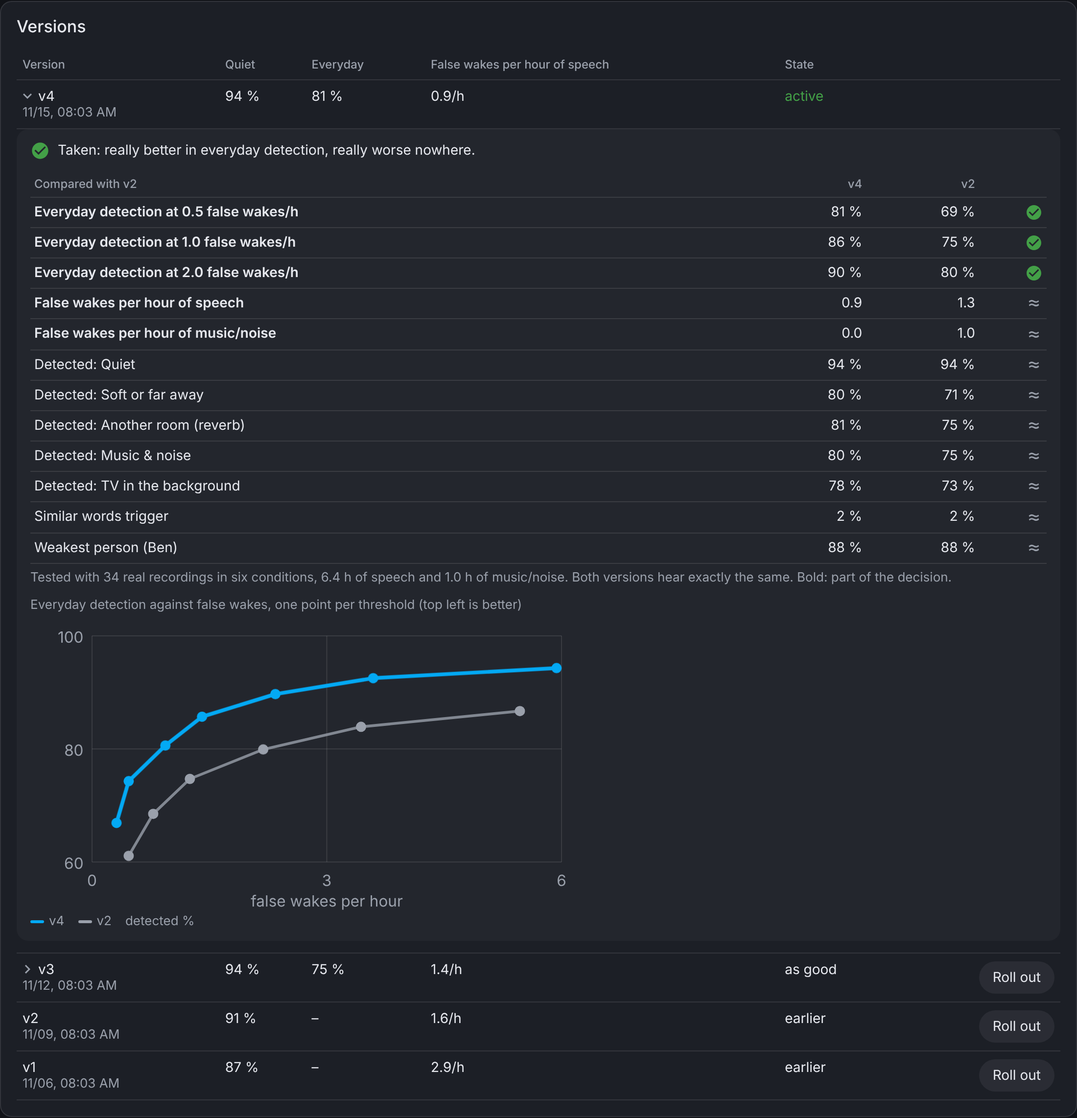
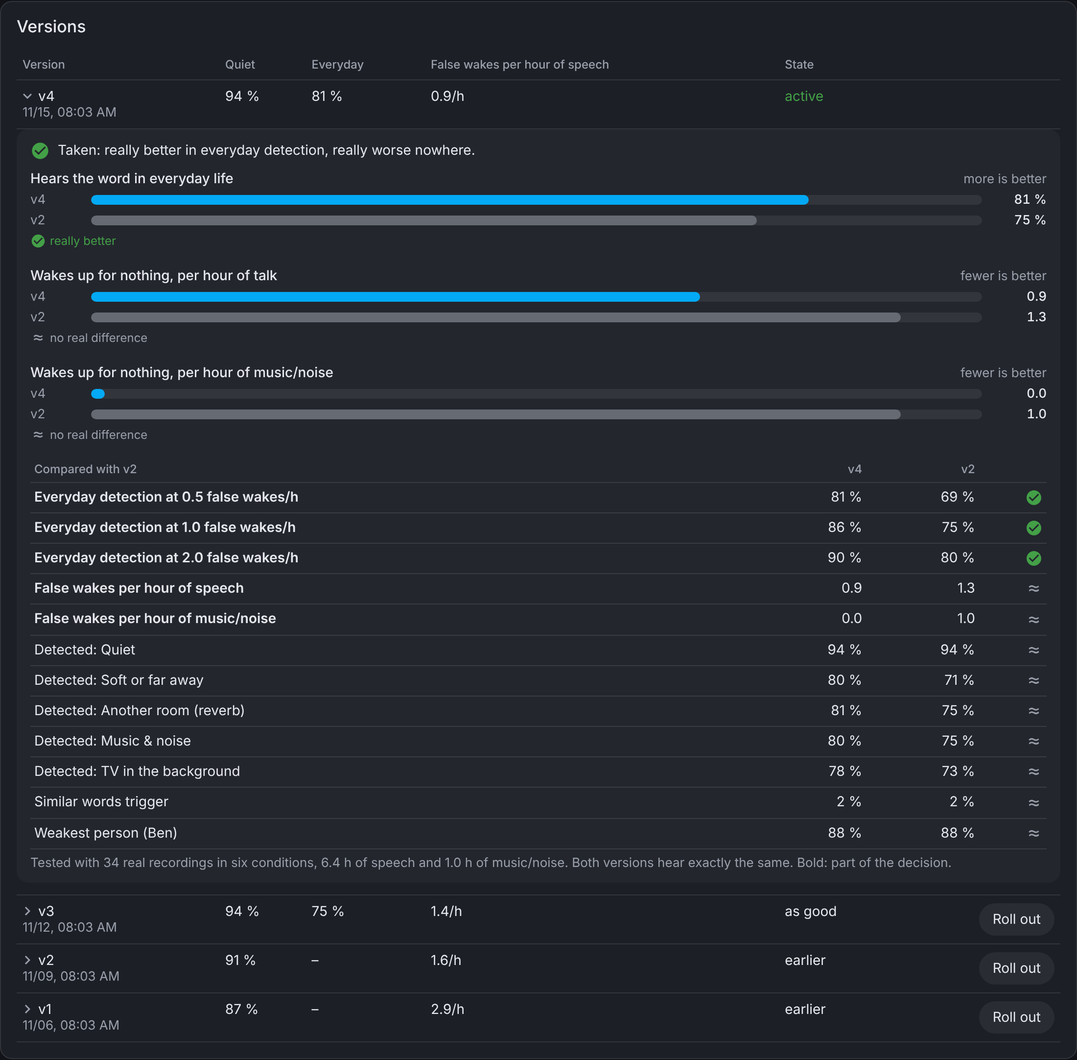
1.0.27: easy to read version comparison with bars (#36)
The curve was hard to read and showed nothing for versions tested before
1.0.26. The active version card and every version's details now show two
bars per question (hears the word in everyday life, wakes up for nothing
in talk, in music/noise) against the version before, marked really
better / really worse / no real difference. Old reports use their own
test. Grow-in animations play when a page opens, not on each refresh.

Claude-Session: https://claude.ai/code/session_015s6FHN9RtFzjRTkpWD3kXZ

diff --git a/custom_components/sprachmodell/frontend/sprachmodell-panel.js b/custom_components/sprachmodell/frontend/sprachmodell-panel.js
@@ -10,7 +10,7 @@ const TEXTE_DA = import(`./sprachmodell-texte.js${new URL(import.meta.url).searc
   .then((m) => { TEXTE = m.TEXTE; SPRACHNAMEN = m.SPRACHNAMEN; })
   .catch((e) => console.error('Wake Word Studio: texts could not be loaded', e));
 
-const VERSION = '1.0.26';
+const VERSION = '1.0.27';
 const REPO = 'https://github.com/Wadim-dev/WakeWordStudio_ha';
 const BILD = 'ghcr.io/wadim-dev/wake-word-studio-trainer:latest';
 const PROXMOX = 'https://raw.githubusercontent.com/Wadim-dev/WakeWordStudio_ha/main/sprachmodell_trainer/proxmox.sh';
@@ -87,7 +87,7 @@ button.k kbd{font:11px monospace;opacity:.6;border:1px solid currentColor;border
 .stempel.u-wort{background:color-mix(in srgb,var(--success-color,#4caf50) 82%,transparent)}.stempel.u-kein_wort{background:color-mix(in srgb,var(--error-color,#f44336) 82%,transparent)}.stempel.u-verworfen{background:color-mix(in srgb,var(--secondary-text-color,#777) 85%,transparent)}
 @keyframes stempel{from{opacity:0;transform:scale(.92)}to{opacity:1;transform:none}}
 .knoepfe button.k.drueck{animation:drueck .35s ease-out}@keyframes drueck{0%{box-shadow:0 0 0 0 rgba(var(--rgb-primary-color,3,169,244),.45)}100%{box-shadow:0 0 0 12px rgba(var(--rgb-primary-color,3,169,244),0)}}
-@media (prefers-reduced-motion:reduce){.eintrag .stempel,.knoepfe button.k.drueck,.umzug,.lage-balken i,.vgl.auf,.vgl.auf .kurve path,.vgl.auf .kurve circle{animation:none}}
+@media (prefers-reduced-motion:reduce){.eintrag .stempel,.knoepfe button.k.drueck,.umzug,.lage-balken i,.vgl.auf,.d-spur i{animation:none}}
 .spielen{width:52px;height:52px;border-radius:50%;border:0;background:rgba(var(--rgb-primary-color,3,169,244),.15);color:var(--primary-color);cursor:pointer;position:relative}
 .spielen ha-icon{--mdc-icon-size:28px}
 .spielen svg{position:absolute;inset:0;transform:rotate(-90deg)}
@@ -108,6 +108,19 @@ button.k kbd{font:11px monospace;opacity:.6;border:1px solid currentColor;border
 .marke{border-radius:999px;padding:1px 8px;background:color-mix(in srgb,var(--primary-color) 14%,transparent);color:var(--primary-text-color);font-size:11px}
 .schnitt:empty{display:none}
 .lagen{display:grid;gap:8px;margin:4px 0 6px}
+.blick{display:grid;gap:8px 32px;margin-top:6px}.blick.zwei{grid-template-columns:minmax(0,1fr) minmax(0,1fr);align-items:start}
+@media (max-width:900px){.blick.zwei{grid-template-columns:minmax(0,1fr)}}
+.blick-duell button.link{display:inline-flex;align-items:center;gap:2px;margin-top:2px;border:0;background:none;padding:4px 0;color:var(--primary-color);font:inherit;font-size:14px;cursor:pointer}.blick-duell button.link:hover{text-decoration:underline}.blick-duell button.link ha-icon{--mdc-icon-size:18px}
+.duell{display:grid;gap:16px;margin:4px 0 10px}
+.d-kopf{display:flex;justify-content:space-between;gap:8px;align-items:baseline;font-size:14px;font-weight:500;margin-bottom:4px}.d-kopf .klein{font-weight:400;white-space:nowrap}
+.d-zeile{display:grid;grid-template-columns:52px 1fr 56px;gap:10px;align-items:center;font-size:13px;margin-top:5px}
+.d-zeile b{text-align:right;font-weight:500;font-variant-numeric:tabular-nums}.d-name{color:var(--secondary-text-color)}
+.d-spur{height:10px;border-radius:5px;background:rgba(var(--rgb-primary-text-color,0,0,0),.08);overflow:hidden}
+.d-spur i{display:block;height:100%;width:var(--w);border-radius:5px;animation:balken-wachsen .7s cubic-bezier(.2,.8,.3,1) both}
+.d-spur i.neu{background:var(--primary-color)}.d-spur i.alt{background:var(--secondary-text-color);opacity:.5}
+.d-fuss{margin-top:5px;font-size:12px}.d-urteil{display:inline-flex;gap:4px;align-items:center;color:var(--secondary-text-color)}.d-urteil ha-icon{--mdc-icon-size:16px}
+.d-urteil.u-besser{color:var(--success-color,#4caf50)}.d-urteil.u-schlechter{color:var(--error-color,#f44336)}
+.still .lage-balken i,.still .d-spur i{animation:none}
 .lage{display:grid;grid-template-columns:minmax(110px,190px) 1fr 48px;gap:10px;align-items:center;font-size:13px}
 .lage b{text-align:right;font-weight:500}
 .lage-balken{height:8px;border-radius:4px;background:rgba(var(--rgb-primary-text-color,0,0,0),.08);overflow:hidden}
@@ -131,18 +144,6 @@ table.versionen tr.vdetail>td{padding:0 0 12px;background:transparent}
 .vgl-tab .u-gleich{color:var(--secondary-text-color)}
 .vgl-tab td,.vgl-tab th{padding:6px 4px}.vgl-tab ha-icon{--mdc-icon-size:18px}
 .vgl-tab tr.wichtig td:first-child{font-weight:600}
-.kurve{margin-top:12px}.kurve svg{display:block;width:100%;max-width:560px;height:auto;margin-top:6px;overflow:visible}
-.kurve text{font-size:9px;fill:var(--secondary-text-color)}
-.kurve line.g{stroke:var(--divider-color);stroke-width:.6}
-.kurve path{fill:none;stroke-width:2.2;stroke-linejoin:round;stroke-linecap:round;stroke-dasharray:1;stroke-dashoffset:0}
-.kurve path.neu{stroke:var(--primary-color)}.kurve path.alt{stroke:var(--secondary-text-color);stroke-width:1.6;opacity:.8}
-.vgl.auf .kurve path{animation:linie-zeichnen .9s cubic-bezier(.4,0,.2,1) both}.vgl.auf .kurve path.alt{animation-delay:.1s}
-.kurve circle.neu{fill:var(--primary-color)}.kurve circle.alt{fill:var(--secondary-text-color)}
-.vgl.auf .kurve circle{animation:punkt-auf .3s ease-out both}
-@keyframes linie-zeichnen{from{stroke-dashoffset:1}to{stroke-dashoffset:0}}
-@keyframes punkt-auf{from{opacity:0;transform:scale(.3)}to{opacity:1;transform:none}}
-.kurve circle{transform-box:fill-box;transform-origin:center}
-.legende{gap:14px;margin-top:4px}.legende i{display:inline-block;width:14px;height:3px;border-radius:2px;margin-right:5px;vertical-align:middle}
 .legende i.neu{background:var(--primary-color)}.legende i.alt{background:var(--secondary-text-color)}
 .umzug:empty{display:none}
 .umzug{margin-top:10px;padding:10px 12px;border-radius:10px;background:color-mix(in srgb,var(--primary-text-color) 5%,transparent);animation:aufklappen .22s cubic-bezier(.2,.8,.3,1) both}
@@ -457,6 +458,10 @@ class SprachmodellPanel extends HTMLElement {
     const positionen = this._scrollPositionen();
     main.style.minHeight = main.offsetHeight + 'px';
     const log = main.querySelector('.protokoll'), oben = !log || log.scrollTop < 30, logPos = log ? log.scrollTop : 0;
+    // grow-in animations only when a page is opened, not each time its data refreshes
+    const seite = this._reiter + '|' + this._wortId;
+    main.classList.toggle('still', this._gezeigt === seite);
+    this._gezeigt = seite;
     main.innerHTML = f.call(this);
     const logNeu = main.querySelector('.protokoll'); if (logNeu) logNeu.scrollTop = oben ? 0 : logPos;
     if (this._reiter === 'pruefen') this._markieren(false);
@@ -1347,9 +1352,9 @@ ${summe ? `<div class="tb-rahmen"><table class="tb"><tr><th class="tb-r klein">$
     const zeilen = w.versionen.map((x) => {
       const b = x.bericht || {}, n = b.neu || {}, vg = b.vergleich, offen = this._vglOffen.has(x.nr);
       const stand = x.status === 'verworfen' && vg && vg.urteil === 'gleich' ? 'gleich' : x.status;
-      const details = b.je_schwelle || vg;
+      const details = vg || b.alt !== undefined;
       return `<tr class="vrow ${details ? 'klickbar' : ''} ${offen ? 'offen' : ''}" ${details ? `data-vgl="${x.nr}" title="${esc(this.t('q_details'))}"` : ''}><td>${details ? '<ha-icon class="pfeil" icon="mdi:chevron-right"></ha-icon>' : ''}v${x.nr}<div class="klein">${this._datum(x.zeit)}</div></td><td>${this._pct(n.trefferquote)}</td><td>${this._pct(n.trefferquote_alltag)}</td><td>${this._zahl(n.fehlausloeser_pro_stunde, 1)}/${esc(this.t('std'))}</td><td class="${x.status === 'aktiv' ? 'gruen' : ''}">${esc(this.t('s_' + stand))}</td><td class="z">${x.status !== 'aktiv' && this._admin ? `<button class="k" data-a="einspielen" data-nr="${x.nr}">${esc(this.t('q_einspielen'))}</button>` : ''}</td></tr>
-${details ? `<tr class="vdetail" data-vgldetail="${x.nr}" ${offen ? '' : 'hidden'}><td colspan="6"><div class="vgl ${offen ? 'auf' : ''}">${this._vergleich(x)}</div></td></tr>` : ''}`;
+${details ? `<tr class="vdetail" data-vgldetail="${x.nr}" ${offen ? '' : 'hidden'}><td colspan="6"><div class="vgl">${this._vergleich(x)}</div></td></tr>` : ''}`;
     }).join('');
     return `<div class="tabelle-scroll"><table class="versionen"><tr><th>${esc(this.t('q_version'))}</th><th>${esc(this.t('q_erkannt_ruhig'))}</th><th title="${esc(this.t('q_alltag_t'))}">${esc(this.t('q_alltag_k'))}</th><th>${esc(this.t('q_fehl'))}</th><th>${esc(this.t('q_stand'))}</th><th></th></tr>${zeilen}</table></div>`;
   }
@@ -1361,37 +1366,59 @@ ${details ? `<tr class="vdetail" data-vgldetail="${x.nr}" ${offen ? '' : 'hidden
       : z.kennzahl.startsWith('erkannt_') ? this.t('k_erkannt', { b: this.t('b_' + z.kennzahl.slice(8)) })
         : z.kennzahl === 'schwaechste_person' ? this.t('k_schwaechste_person', { p: z.person || '' }) : this.t('k_' + z.kennzahl);
     const icon = { besser: 'mdi:check-circle', schlechter: 'mdi:close-circle', gleich: 'mdi:approximately-equal' };
-    let kopf = '';
-    if (vg) {
-      const liste = (ks) => [...new Set(ks)].map((k) => this.t(k === 'alltag_bei_fa' ? 'k_alltag_kurz' : 'k_' + k)).join(', ');
-      kopf = `<div class="vgl-urteil u-${vg.urteil}"><ha-icon icon="${icon[vg.urteil] || 'mdi:information'}"></ha-icon><span>${esc(this.t('g_' + vg.grund, { k: liste(vg.grund === 'besser_in' ? vg.besser_in : vg.schlechter_in) }))}</span></div>`;
-    } else if (b.alt === null) kopf = `<div class="vgl-urteil"><ha-icon icon="mdi:information-outline"></ha-icon><span>${esc(this.t('g_erste'))}</span></div>`;
+    const kopf = this._urteilZeile(b);
     const tab = vg ? `<table class="vgl-tab"><tr><th>${esc(this.t(b.alt_nr ? 'q_vgl' : 'q_vgl_vorher', { v: b.alt_nr }))}</th><th class="z">${esc(this.t('q_vgl_neu', { v: x.nr }))}</th><th class="z">${esc(b.alt_nr ? 'v' + b.alt_nr : this.t('q_vgl_alt'))}</th><th class="z"></th></tr>${vg.zeilen.map((z) => `<tr class="${z.wichtig ? 'wichtig' : ''}"><td>${esc(name(z))}</td><td class="z">${z.kennzahl === 'alltag_bei_fa' && z.neu == null ? esc(this.t('q_nicht_erreicht')) : wert(z.kennzahl, z.neu)}</td><td class="z">${z.kennzahl === 'alltag_bei_fa' && z.alt == null ? esc(this.t('q_nicht_erreicht')) : wert(z.kennzahl, z.alt)}</td><td class="z"><ha-icon class="u-${z.urteil}" icon="${icon[z.urteil]}" title="${esc(this.t('u_' + z.urteil))}"></ha-icon></td></tr>`).join('')}</table>
-<div class="klein" style="margin-top:6px">${esc(this.t('q_vgl_basis', { n: vg.testaufnahmen, h: this._zahl(vg.stunden_rede, 1), g: this._zahl(vg.stunden_geraeusch, 1) }))}</div>` : b.je_schwelle ? `<div class="klein">${esc(this.t('q_vgl_alt_test'))}</div>` : '';
-    return kopf + tab + (b.je_schwelle ? this._kurve(b.je_schwelle, b.alt_je_schwelle, x.nr, b.alt_nr) : '');
+<div class="klein" style="margin-top:6px">${esc(this.t('q_vgl_basis', { n: vg.testaufnahmen, h: this._zahl(vg.stunden_rede, 1), g: this._zahl(vg.stunden_geraeusch, 1) }))}</div>` : '';
+    return kopf + this._duell(b, x.nr) + tab;
   }
 
-  _kurve(jn, ja, nr, altNr) {
-    const punkte = (je) => Object.entries(je || {}).map(([c, v]) => ({ c: Number(c), fa: v.fehlausloeser_pro_stunde, q: v.trefferquote_alltag != null ? v.trefferquote_alltag : v.trefferquote }))
-      .filter((p) => p.c >= 0.8 && typeof p.fa === 'number' && typeof p.q === 'number').sort((a, b) => a.fa - b.fa || a.q - b.q);
-    // the interesting part is up to a few false wakes per hour; points beyond are left out
-    const grenze = (ps) => ps.filter((p) => p.fa <= 8);
-    const pn = grenze(punkte(jn)), pa = grenze(punkte(ja));
-    if (!pn.length) return '';
-    const alle = [...pn, ...pa];
-    const xmax = Math.max(2, Math.ceil(Math.max(...alle.map((p) => p.fa)))), ymin = Math.max(0, Math.floor(Math.min(...alle.map((p) => p.q)) * 10 - 0.0001) / 10);
-    const W = 320, H = 170, L = 36, R = 10, T = 10, B = 28;
-    const X = (fa) => L + (fa / xmax) * (W - L - R), Y = (q) => T + (1 - (q - ymin) / Math.max(0.05, 1 - ymin)) * (H - T - B);
-    const linie = (ps) => ps.map((p, i) => `${i ? 'L' : 'M'}${X(p.fa).toFixed(1)},${Y(p.q).toFixed(1)}`).join('');
-    const xt = [0, xmax / 2, xmax], yt = [ymin, (ymin + 1) / 2, 1];
-    const gitter = xt.map((v) => `<line class="g" x1="${X(v)}" x2="${X(v)}" y1="${T}" y2="${H - B}"></line><text x="${X(v)}" y="${H - B + 14}" text-anchor="middle">${this._zahl(v, v % 1 ? 1 : 0)}</text>`).join('')
-      + yt.map((v) => `<line class="g" x1="${L}" x2="${W - R}" y1="${Y(v)}" y2="${Y(v)}"></line><text x="${L - 5}" y="${Y(v) + 4}" text-anchor="end">${Math.round(v * 100)}</text>`).join('');
-    const kreise = (ps, k) => ps.map((p, i) => `<circle class="${k}" cx="${X(p.fa).toFixed(1)}" cy="${Y(p.q).toFixed(1)}" r="3" style="animation-delay:${300 + i * 40}ms"><title>${this._zahl(p.c)} · ${this._pct(p.q)} · ${this._zahl(p.fa, 1)}/${esc(this.t('std'))}</title></circle>`).join('');
-    return `<div class="kurve"><div class="klein">${esc(this.t('q_kurve'))}</div>
-<svg viewBox="0 0 ${W} ${H}" role="img" aria-label="${esc(this.t('q_kurve'))}">${gitter}
-<text x="${(L + W - R) / 2}" y="${H - 2}" text-anchor="middle">${esc(this.t('q_kurve_x'))}</text>
-${pa.length ? `<path class="alt" pathLength="1" d="${linie(pa)}"></path>${kreise(pa, 'alt')}` : ''}<path class="neu" pathLength="1" d="${linie(pn)}"></path>${kreise(pn, 'neu')}</svg>
-<div class="zeile klein legende"><span><i class="neu"></i>v${nr}</span>${pa.length ? `<span><i class="alt"></i>${altNr ? 'v' + altNr : esc(this.t('q_vgl_alt'))}</span>` : ''}<span>${esc(this.t('q_kurve_y'))} %</span></div></div>`;
+  _urteilZeile(b) {
+    const vg = b.vergleich, icon = { besser: 'mdi:check-circle', schlechter: 'mdi:close-circle', gleich: 'mdi:approximately-equal' };
+    const zeile = (cls, ic, text) => `<div class="vgl-urteil ${cls}"><ha-icon icon="${ic}"></ha-icon><span>${esc(text)}</span></div>`;
+    if (vg) {
+      const liste = (ks) => [...new Set(ks)].map((k) => this.t(k === 'alltag_bei_fa' ? 'k_alltag_kurz' : 'k_' + k)).join(', ');
+      return zeile('u-' + vg.urteil, icon[vg.urteil] || 'mdi:information', this.t('g_' + vg.grund, { k: liste(vg.grund === 'besser_in' ? vg.besser_in : vg.schlechter_in) }));
+    }
+    if (b.alt === null) return zeile('', 'mdi:information-outline', this.t('g_erste'));
+    return b.alt && b.besser != null ? zeile('', 'mdi:information-outline', this.t(b.besser ? 'g_alt_besser' : 'g_alt_nicht')) : '';
+  }
+
+  // two bars per question, this version against the one before: the three things that matter in daily life
+  _duell(b, nr) {
+    const n = b.neu || {}, a = b.alt;
+    if (!a) return '';
+    const vg = b.vergleich, urteil = (k, fa) => { const z = vg && vg.zeilen.find((r) => r.kennzahl === k && (fa == null || r.fa === fa)); return z ? z.urteil : null; };
+    const alltag = n.trefferquote_alltag != null && a.trefferquote_alltag != null;
+    const fragen = [
+      { titel: alltag ? 'd_hoert_alltag' : 'd_hoert', hin: 'd_mehr', neu: alltag ? n.trefferquote_alltag : n.trefferquote, alt: alltag ? a.trefferquote_alltag : a.trefferquote, pct: true, u: urteil('alltag_bei_fa', 1) },
+      { titel: 'd_fehl_rede', hin: 'd_weniger', neu: n.fehlausloeser_pro_stunde, alt: a.fehlausloeser_pro_stunde, u: urteil('fehlausloeser_rede') },
+      { titel: 'd_fehl_geraeusch', hin: 'd_weniger', neu: n.fehlausloeser_geraeusch_pro_stunde, alt: a.fehlausloeser_geraeusch_pro_stunde, u: urteil('fehlausloeser_geraeusch') },
+    ].filter((f) => f.neu != null && f.alt != null);
+    if (!fragen.length) return '';
+    const altName = b.alt_nr ? 'v' + b.alt_nr : this.t('q_vgl_alt');
+    const icon = { besser: 'mdi:check-circle', schlechter: 'mdi:close-circle', gleich: 'mdi:approximately-equal' };
+    let k = 0;
+    const balken = (name, wert, f, max, klasse) => `<div class="d-zeile"><span class="d-name">${esc(name)}</span><div class="d-spur"><i class="${klasse}" style="--w:${Math.max(1.5, Math.min(100, (wert / max) * 100)).toFixed(1)}%;animation-delay:${(k++) * 70}ms"></i></div><b>${f.pct ? this._pct(wert) : this._zahl(wert, 1)}</b></div>`;
+    return `<div class="duell">${fragen.map((f) => {
+      const max = f.pct ? 1 : Math.max(1, f.neu, f.alt) * 1.1;
+      const marke = f.u ? `<div class="d-fuss"><span class="d-urteil u-${f.u}"><ha-icon icon="${icon[f.u]}"></ha-icon>${esc(this.t('d_u_' + f.u))}</span></div>` : '';
+      return `<div class="d-frage"><div class="d-kopf"><span>${esc(this.t(f.titel))}</span><span class="klein">${esc(this.t(f.hin))}</span></div>${balken('v' + nr, f.neu, f, max, 'neu')}${balken(altName, f.alt, f, max, 'alt')}${marke}</div>`;
+    }).join('')}${vg ? '' : `<div class="klein">${esc(this.t('d_alter_test'))}</div>`}</div>`;
+  }
+
+  // the active version at a glance: how it hears in every condition and, next to it, the duel against the version before
+  _aktivBlick(v, b) {
+    const neu = b.neu || {}, duell = this._duell(b, v.nr);
+    const rechts = duell ? `<div class="blick-duell"><h3>${esc(this.t(b.alt_nr ? 'd_titel' : 'd_titel_vorher', { a: v.nr, b: b.alt_nr }))}</h3>${this._urteilZeile(b)}${duell}${b.vergleich ? `<button class="link" data-a="vgl_zeigen" data-nr="${v.nr}">${esc(this.t('q_alle_werte'))}<ha-icon icon="mdi:chevron-right"></ha-icon></button>` : ''}</div>` : '';
+    const links = neu.bedingungen ? `<div>${this._lagen(neu.bedingungen)}</div>` : '';
+    return links || rechts ? `<div class="blick ${links && rechts ? 'zwei' : ''}">${links}${rechts}</div>` : '';
+  }
+
+  _vglZeigen(nr) {
+    const zeile = this.shadowRoot.querySelector(`tr[data-vgl="${nr}"]`), det = this.shadowRoot.querySelector(`[data-vgldetail="${nr}"]`);
+    if (!zeile || !det) return;
+    if (det.hidden) this._vglUmschalten(nr, zeile);
+    zeile.scrollIntoView({ behavior: matchMedia('(prefers-reduced-motion: reduce)').matches ? 'auto' : 'smooth', block: 'start' });
   }
 
   _qualitaet() {
@@ -1407,7 +1434,7 @@ ${neu.bedingungen ? '' : `<div><div class="klein">${esc(this.t('q_musik'))}</div
 <div><div class="klein">${esc(this.t('q_fehl'))}</div><div class="wert" style="font-size:26px">${this._zahl(neu.fehlausloeser_pro_stunde, 1)}</div></div>
 ${neu.fehlausloeser_geraeusch_pro_stunde != null ? `<div><div class="klein">${esc(this.t('q_fehl_geraeusch'))}</div><div class="wert" style="font-size:26px">${this._zahl(neu.fehlausloeser_geraeusch_pro_stunde, 1)}</div></div>` : ''}
 <div><div class="klein">${esc(this.t('q_gegen'))}</div><div class="wert" style="font-size:26px">${this._pct(neu.gegenbeispiele)}</div></div></div>
-${neu.bedingungen ? this._lagen(neu.bedingungen) : ''}
+${this._aktivBlick(v, b)}
 ${Object.keys(personen).length ? `<h3>${esc(this.t('q_je_person'))}</h3><table><tr><th>${esc(this.t('h_person'))}</th><th class="z">${esc(this.t('q_erkannt'))}</th><th class="z">${esc(this.t('q_aufnahmen'))}</th></tr>${Object.entries(personen).map(([p, x]) => `<tr><td>${esc(p)}</td><td class="z">${this._pct(x.trefferquote)}</td><td class="z">${x.anzahl}</td></tr>`).join('')}</table>` : ''}
 <div class="klein" style="margin-top:10px">${esc(this.t('ue_eingespielt', { z: this._zeit(v.eingespielt) }))}${b.cutoff ? ' · ' + esc(this.t('q_modell_schwelle', { w: this._zahl(b.cutoff) })) : ''}${herkunft ? ' · ' + esc(herkunft) : ''}</div>` : `<div class="klein">${esc(this.t('q_keine'))}</div>`}</ha-card>
 ${this._tabelle()}
@@ -1618,6 +1645,8 @@ ${geraete.length ? `<h3 style="margin:16px 0 8px">${esc(this.t('es_senden_geraet
       } else if (a === 'schwelle') {
         const w = Number(t.dataset.wert);
         if (confirm(this.t('q_schwelle_frage', { w: this._zahl(w) }))) { await this._api('POST', 'aktion', { aktion: 'schwelle', wort: this._wortId, wert: w }); this._meldung(this.t('q_schwelle_ok')); this._laden(); }
+      } else if (a === 'vgl_zeigen') {
+        this._vglZeigen(Number(t.dataset.nr));
       } else if (a === 'einspielen') {
         const nr = Number(t.dataset.nr);
         if (confirm(this.t('q_einspielen_frage', { n: nr }))) { await this._api('POST', 'aktion', { aktion: 'einspielen', wort: this._wortId, nr }); this._meldung(this.t('q_wird', { n: nr })); this._laden(); }

diff --git a/custom_components/sprachmodell/frontend/sprachmodell-texte.js b/custom_components/sprachmodell/frontend/sprachmodell-texte.js
@@ -113,7 +113,7 @@ export const TEXTE = {
     q_aktiv: 'Aktive Version', q_erkennt: 'Erkennt das Wort (Test)', q_musik: 'Mit Musik im Hintergrund', q_fehl: 'Fehlauslöser pro Stunde Gerede',
     q_gegen: 'Gegenbeispiele ausgelöst', q_je_person: 'Je Person (Test)', q_erkannt: 'erkannt', q_aufnahmen: 'Aufnahmen',
     q_alltag_k: 'Im Alltag', q_alltag_t: 'Mittel aus sechs Lagen: ruhig, leise oder fern, anderer Raum, Musik und Geräusche, Fernseher im Hintergrund, alles zusammen',
-    q_lagen: 'So gut hört sie', q_fehl_geraeusch: 'Fehlauslöser pro Stunde Musik/Geräusche', s_gleich: 'gleich gut', q_erkannt_ruhig: 'Ruhig',
+    q_lagen: 'So gut hört sie', q_fehl_geraeusch: 'Fehlauslöser pro Stunde Musik/Geräusche', s_gleich: 'gleich gut', q_erkannt_ruhig: 'Ruhig', d_titel: 'v{a} gegen v{b}', d_titel_vorher: 'v{a} gegen die Version davor', d_hoert_alltag: 'Hört das Wort im Alltag', d_hoert: 'Hört das Wort', d_mehr: 'mehr ist besser', d_weniger: 'weniger ist besser', d_fehl_rede: 'Springt grundlos an, pro Stunde Gespräch', d_fehl_geraeusch: 'Springt grundlos an, pro Stunde Musik/Geräusche', d_u_besser: 'wirklich besser', d_u_schlechter: 'wirklich schlechter', d_u_gleich: 'kein echter Unterschied', d_alter_test: 'Alter Test (vor 1.0.26): nur ruhige Aufnahmen, ohne Prüfung auf Zufall.', g_alt_besser: 'Damals als besser eingestuft (alter Test).', g_alt_nicht: 'Damals nicht besser eingestuft (alter Test).', q_alle_werte: 'Alle Werte im Vergleich',
     b_ruhig: 'Ruhig', b_leise: 'Leise oder fern', b_hall: 'Anderer Raum (Hall)', b_musik: 'Musik & Geräusche', b_gerede: 'Fernseher im Hintergrund', b_alltag: 'Alles zusammen',
     q_vgl: 'Vergleich mit v{v}', q_vgl_vorher: 'Vergleich mit der vorherigen Version', q_vgl_kennzahl: 'Kennzahl', q_vgl_neu: 'v{v}', q_vgl_alt: 'vorher', q_vgl_ergebnis: 'Ergebnis',
     g_besser_in: 'Übernommen: wirklich besser bei {k}, nirgends wirklich schlechter.', g_schlechter_in: 'Verworfen: wirklich schlechter bei {k}.',
@@ -122,8 +122,8 @@ export const TEXTE = {
     k_erkannt: 'Erkannt: {b}', k_aehnliche_woerter: 'Ähnliche Wörter lösen aus', k_schwaechste_person: 'Schwächste Person ({p})',
     u_besser: 'wirklich besser', u_schlechter: 'wirklich schlechter', u_gleich: 'im Zufall, gleich',
     q_vgl_basis: 'Getestet mit {n} echten Aufnahmen in sechs Lagen, {h} Std. Gerede und {g} Std. Musik/Geräuschen. Beide Versionen hören genau dasselbe. Fett: entscheidet mit.',
-    q_vgl_alt_test: 'Vor 1.0.26 getestet: nur Trefferquote und Fehlauslöser, ohne Alltagslagen.', q_kurve: 'Erkennung im Alltag gegen Fehlauslöser, je Punkt eine Schwelle (oben links ist besser)',
-    q_kurve_x: 'Fehlauslöser pro Stunde', q_kurve_y: 'erkannt', q_details: 'Details anzeigen', q_nicht_erreicht: 'nie so wenige',
+   
+    q_details: 'Details anzeigen', q_nicht_erreicht: 'nie so wenige',
     q_modell_schwelle: 'Modell-Schwelle {w}', q_keine: 'Noch keine Version.', q_alltag: 'Im Alltag (aus deinen Antworten)',
     q_schwelle: 'Schwelle aus deinen Antworten', q_vorschlag: 'Vorschlag: <b>{w}</b>', q_jetzt: '(jetzt {w})', q_uebernehmen: 'An den Geräten übernehmen',
     q_vorschlag_spaeter: 'Ein Vorschlag kommt, sobald zur aktiven Version mindestens 10 richtige und 5 falsche Aufwach-Aufnahmen geprüft sind.',
@@ -282,7 +282,7 @@ export const TEXTE = {
     q_aktiv: 'Active version', q_erkennt: 'Detects the word (test)', q_musik: 'With background music', q_fehl: 'False wakes per hour of speech',
     q_gegen: 'Negative examples triggered', q_je_person: 'Per person (test)', q_erkannt: 'detected', q_aufnahmen: 'Recordings',
     q_alltag_k: 'Everyday', q_alltag_t: 'Average of six conditions: quiet, soft or far away, another room, music and noise, TV in the background, all at once',
-    q_lagen: 'How well it hears', q_fehl_geraeusch: 'False wakes per hour of music/noise', s_gleich: 'as good', q_erkannt_ruhig: 'Quiet',
+    q_lagen: 'How well it hears', q_fehl_geraeusch: 'False wakes per hour of music/noise', s_gleich: 'as good', q_erkannt_ruhig: 'Quiet', d_titel: 'v{a} against v{b}', d_titel_vorher: 'v{a} against the version before', d_hoert_alltag: 'Hears the word in everyday life', d_hoert: 'Hears the word', d_mehr: 'more is better', d_weniger: 'fewer is better', d_fehl_rede: 'Wakes up for nothing, per hour of talk', d_fehl_geraeusch: 'Wakes up for nothing, per hour of music/noise', d_u_besser: 'really better', d_u_schlechter: 'really worse', d_u_gleich: 'no real difference', d_alter_test: 'Old test (before 1.0.26): quiet recordings only, no check for chance.', g_alt_besser: 'Rated better at the time (old test).', g_alt_nicht: 'Not rated better at the time (old test).', q_alle_werte: 'All figures in the comparison',
     b_ruhig: 'Quiet', b_leise: 'Soft or far away', b_hall: 'Another room (reverb)', b_musik: 'Music & noise', b_gerede: 'TV in the background', b_alltag: 'All at once',
     q_vgl: 'Compared with v{v}', q_vgl_vorher: 'Compared with the previous version', q_vgl_kennzahl: 'Figure', q_vgl_neu: 'v{v}', q_vgl_alt: 'before', q_vgl_ergebnis: 'Result',
     g_besser_in: 'Taken: really better in {k}, really worse nowhere.', g_schlechter_in: 'Dropped: really worse in {k}.',
@@ -291,8 +291,8 @@ export const TEXTE = {
     k_erkannt: 'Detected: {b}', k_aehnliche_woerter: 'Similar words trigger', k_schwaechste_person: 'Weakest person ({p})',
     u_besser: 'really better', u_schlechter: 'really worse', u_gleich: 'within chance, the same',
     q_vgl_basis: 'Tested with {n} real recordings in six conditions, {h} h of speech and {g} h of music/noise. Both versions hear exactly the same. Bold: part of the decision.',
-    q_vgl_alt_test: 'Tested before 1.0.26: hit rate and false wakes only, no everyday conditions.', q_kurve: 'Everyday detection against false wakes, one point per threshold (top left is better)',
-    q_kurve_x: 'false wakes per hour', q_kurve_y: 'detected', q_details: 'Show details', q_nicht_erreicht: 'never this low',
+   
+    q_details: 'Show details', q_nicht_erreicht: 'never this low',
     q_modell_schwelle: 'Model threshold {w}', q_keine: 'No version yet.', q_alltag: 'In daily use (from your answers)',
     q_schwelle: 'Threshold from your answers', q_vorschlag: 'Suggestion: <b>{w}</b>', q_jetzt: '(now {w})', q_uebernehmen: 'Apply to the devices',
     q_vorschlag_spaeter: 'A suggestion appears once at least 10 correct and 5 false wake-ups of the active version are reviewed.',

diff --git a/sprachmodell_trainer/trainer/__init__.py b/sprachmodell_trainer/trainer/__init__.py
@@ -1,3 +1,3 @@
 """Wake Word Studio Trainer."""
 
-__version__ = "1.0.26"
+__version__ = "1.0.27"

diff --git a/README.md b/README.md
@@ -105,7 +105,7 @@ At night (or on a tap) the trainer fetches the reviewed recordings, adds synthet
 
 <p align="center"><img src="https://raw.githubusercontent.com/Wadim-dev/WakeWordStudio_ha/main/docs/images/comparison.png" alt="Comparing two versions" width="900"></p>
 
-**Compared honestly, not by two numbers:** the comparison looks at everyday detection at the same number of false wakes (0.5, 1 and 2 per hour – the usual way to compare wake words), false wakes in speech and in music/noise, every condition, similar words and the weakest person. A difference only counts when it is larger than chance for the size of your test set; otherwise both are *as good* and the version on your devices stays. Tap a version under *Quality → Versions* to see every figure side by side with ✓/✗/≈ and a curve of detection against false wakes.
+**Compared honestly, not by two numbers:** the comparison looks at everyday detection at the same number of false wakes (0.5, 1 and 2 per hour – the usual way to compare wake words), false wakes in speech and in music/noise, every condition, similar words and the weakest person. A difference only counts when it is larger than chance for the size of your test set; otherwise both are *as good* and the version on your devices stays. The *Active version* card shows it at a glance: two bars per question (hears the word in everyday life, wakes up for nothing in talk, in music/noise) for this version and the one before, each marked *really better*, *really worse* or *no real difference*. Tap a version under *Quality → Versions* for the same view plus every figure side by side.
 Only a version that is really better somewhere important and really worse nowhere is rolled out. Home Assistant reads new wake word models when it starts, so a repair message offers the restart with one tap; afterwards the word is selected on all its devices by itself.
 
 While it runs, the *Training* page shows every step with its start time and duration, the time left and the expected finish time, a *Running right now* card with a progress bar for everything the trainer is busy with at that moment (the step itself, each tool's own progress with count, speed and time left, OmniVoice's stock), the trainer's processor, memory and disk load, and the full live log of the run (up to 500 lines, newest first, filter *Everything / Important / Tool output*, copy with one tap; also kept after an error, so you can see what went wrong). If the trainer is held up for a long time because it waits for memory or disk, Home Assistant shows a repair message with what to do.
@@ -271,7 +271,7 @@ Diagnostics (*Settings → Devices & services → Wake Word Studio → ⋮ → D
 2. *Einstellungen → Geräte & Dienste → Integration hinzufügen → Wake Word Studio*, Ablageordner bestätigen (später änderbar über *Neu konfigurieren*, die Daten ziehen mit um).
 3. **Wake Word Studio** in der Seitenleiste öffnen, Wort anlegen, Geräte wählen, Trainer starten (App, Docker oder Proxmox – Befehle unter *Einstellungen → Trainer*).
 
-**Getestet wie im Alltag, ehrlich verglichen:** Jede Testaufnahme läuft in sechs Lagen (ruhig, leise oder weit weg, anderer Raum mit Hall, mit Musik und Geräuschen, mit Fernseher im Hintergrund, alles zusammen), Fehlauslöser werden auf bis zu 8 Stunden Gerede und 1 Stunde Musik und Geräusche gezählt; neue und aktive Version hören im selben Lauf genau dasselbe. Verglichen wird nicht an zwei Zahlen, sondern an der Erkennung im Alltag bei gleich vielen Fehlauslösern (0,5, 1 und 2 pro Stunde), den Fehlauslösern in Gerede und Geräuschen, jeder Lage, ähnlichen Wörtern und der schwächsten Person. Ein Unterschied zählt nur, wenn er größer ist als der Zufall bei deiner Menge an Testaufnahmen; sonst sind beide *gleich gut* und die aktive Version bleibt. Ein Tipp auf eine Version unter *Qualität → Versionen* zeigt alle Werte nebeneinander mit ✓/✗/≈ und eine Kurve Erkennung gegen Fehlauslöser.
+**Getestet wie im Alltag, ehrlich verglichen:** Jede Testaufnahme läuft in sechs Lagen (ruhig, leise oder weit weg, anderer Raum mit Hall, mit Musik und Geräuschen, mit Fernseher im Hintergrund, alles zusammen), Fehlauslöser werden auf bis zu 8 Stunden Gerede und 1 Stunde Musik und Geräusche gezählt; neue und aktive Version hören im selben Lauf genau dasselbe. Verglichen wird nicht an zwei Zahlen, sondern an der Erkennung im Alltag bei gleich vielen Fehlauslösern (0,5, 1 und 2 pro Stunde), den Fehlauslösern in Gerede und Geräuschen, jeder Lage, ähnlichen Wörtern und der schwächsten Person. Ein Unterschied zählt nur, wenn er größer ist als der Zufall bei deiner Menge an Testaufnahmen; sonst sind beide *gleich gut* und die aktive Version bleibt. Die Karte *Aktive Version* zeigt das auf einen Blick: zwei Balken je Frage (hört das Wort im Alltag, springt grundlos an bei Gespräch, bei Musik/Geräuschen) für diese und die Version davor, jeweils mit *wirklich besser*, *wirklich schlechter* oder *kein echter Unterschied*. Ein Tipp auf eine Version unter *Qualität → Versionen* zeigt dasselbe und alle Werte nebeneinander.
 
 Die Seite *Qualität* zeigt außerdem eine Tabelle aus deinen Antworten und der Sicherheit des Geräts; auffällige Zellen (du und das Modell seid euch sehr uneinig) sind orange umrandet, ein Tipp öffnet genau diese Aufnahmen zum Nachhören.
 

diff --git a/CHANGELOG.md b/CHANGELOG.md
@@ -1,5 +1,10 @@
 # Changelog
 
+## 1.0.27
+- Easy to read comparison instead of the curve: the *Active version* card now shows, next to *How well it hears*, the version against the one before with two bars per question – *Hears the word in everyday life* (more is better), *Wakes up for nothing, per hour of talk* and *per hour of music/noise* (fewer is better) – each marked *really better*, *really worse* or *no real difference*. *All figures in the comparison* jumps to the full table.
+- Versions tested before 1.0.26 get the same bars from their own test (marked as old test) instead of an empty view.
+- Bars grow in when the page is opened, not again with every refresh.
+
 ## 1.0.26
 - Everyday test: every test recording is now also played soft or far away, in another room (reverb), with music and noise, with a TV talking in the background and all at once. False wakes are counted on up to 8 hours of speech (before 3) and, new, on 1 hour of music and noise.
 - Honest comparison: a new version is no longer judged by two numbers. It is compared with the version on the devices on everyday detection at 0.5, 1 and 2 false wakes per hour, false wakes in speech and in music/noise, every condition, similar words and the weakest person – and a difference only counts when it is larger than chance for the size of the test set. Versions that are neither really better nor really worse are shown as *as good*; the version on the devices stays.
